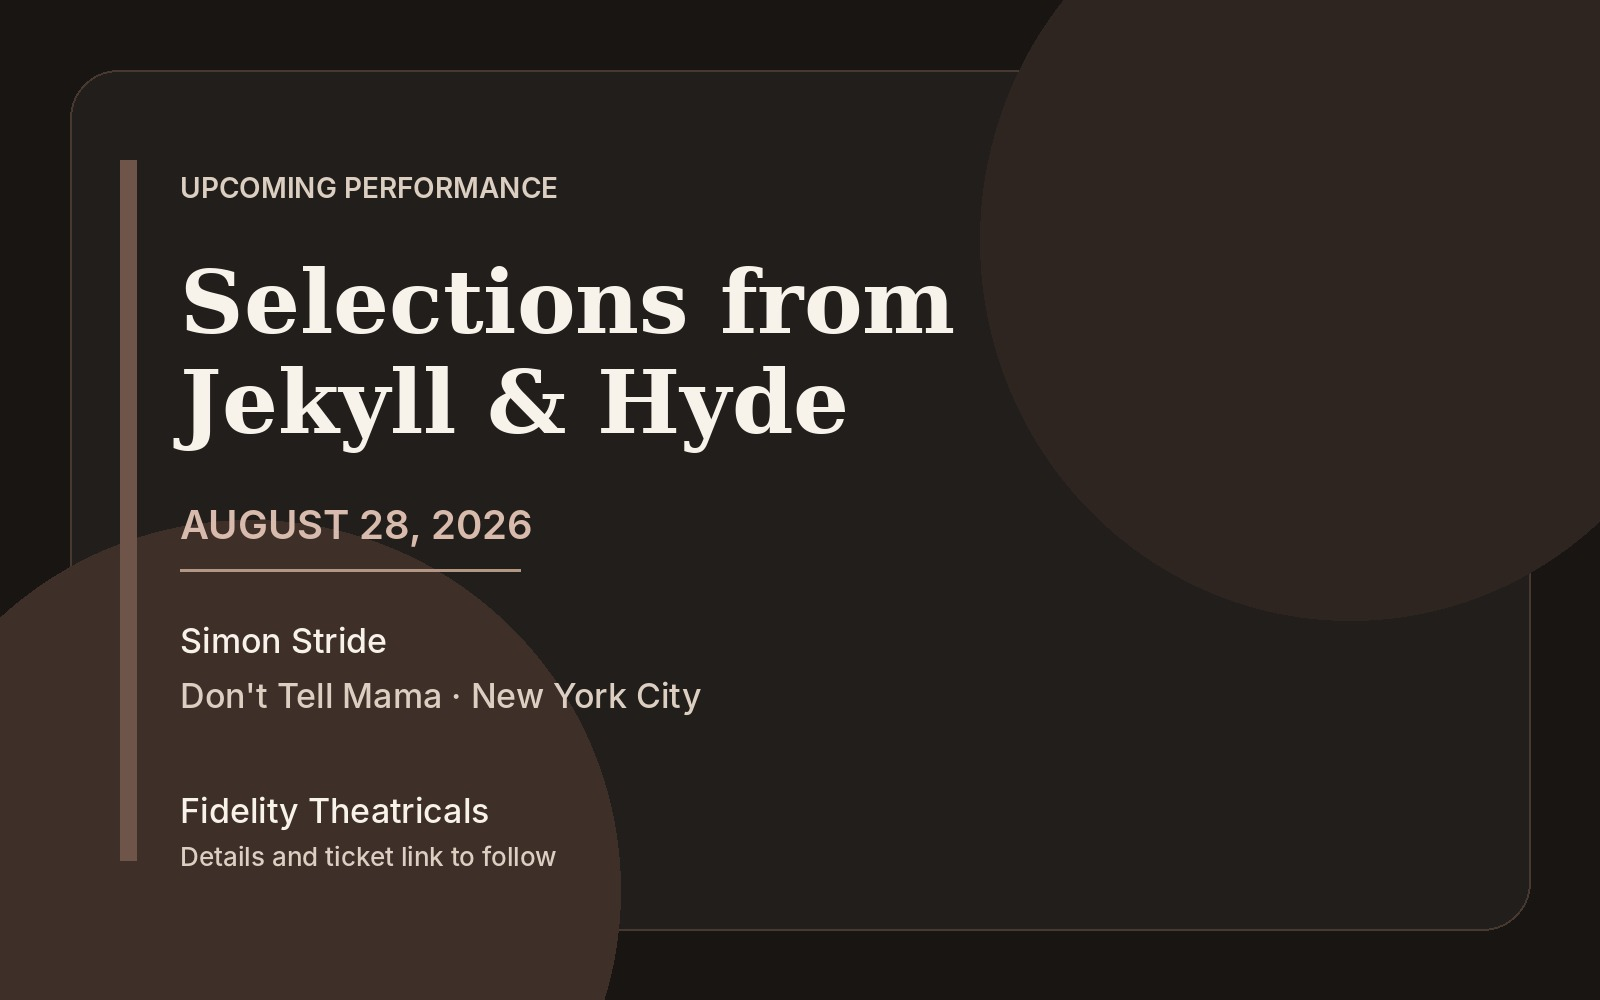
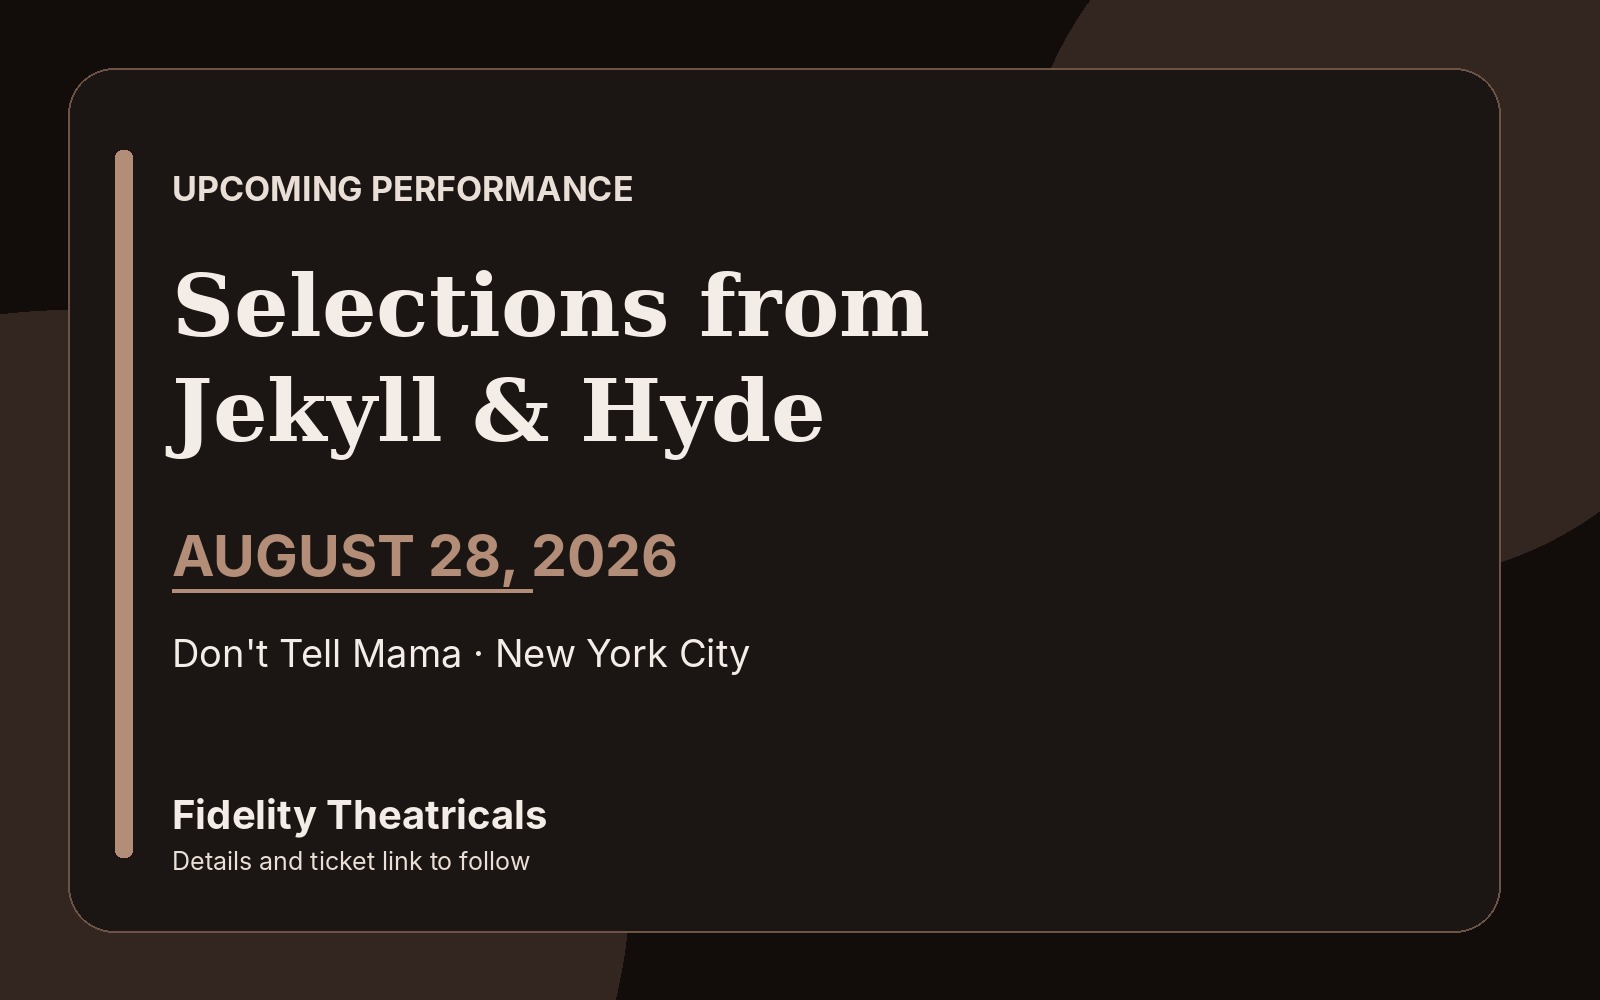
fix contact form

Changed region(s): [[0.0, 0.155, 0.5938, 1.0], [0.0625, 0.0, 0.6875, 0.093], [0.9375, 0.527, 1.0, 0.589]]

diff --git a/contact/thanks/index.html b/contact/thanks/index.html
@@ -54,8 +54,7 @@
       <div class="shell shell--narrow">
         <div class="contact-panel contact-panel--center">
           <div class="button-row button-row--center">
-            <a class="button button--primary" href="../index.html">Home</a>
-            <a class="button" href="../resume/">Resume</a>
+            <a class="button button--primary" href="../#contact-form">Thank You</a>
           </div>
         </div>
       </div>

diff --git a/contact/index.html b/contact/index.html
@@ -73,7 +73,7 @@
           </div>
         </div>
 
-        <form class="contact-form" data-contact-form data-netlify-form="true" name="contact" method="POST" action="/contact/thanks/" data-netlify="true" netlify-honeypot="bot-field" accept-charset="UTF-8">
+        <form id="contact-form" class="contact-form" data-contact-form data-netlify-form="true" name="contact" method="POST" action="/contact/thanks/" data-netlify="true" netlify-honeypot="bot-field" accept-charset="UTF-8">
           <input type="hidden" name="form-name" value="contact">
           <p class="form-honeypot">
             <label>Don&apos;t fill this out if you&apos;re human: <input name="bot-field" type="text" autocomplete="off"></label>

diff --git a/index.html b/index.html
@@ -49,7 +49,7 @@
         <div class="hero__copy">
           <p class="eyebrow">Actor / Singer</p>
           <h1>Howie Reith</h1>
-          <p class="meta-line">New York City · 6'0&quot; · Brown Hair · D2-Bb4</p>
+          <p class="meta-line">New York City · 6'0&quot; · Brown Hair</p>
           <div class="button-row">
             <a class="button button--primary" href="#reel">Watch Reel</a>
             <a class="button" href="assets/docs/howie-reith-theatrical-resume-2026.pdf" target="_blank" rel="noreferrer">Resume</a>